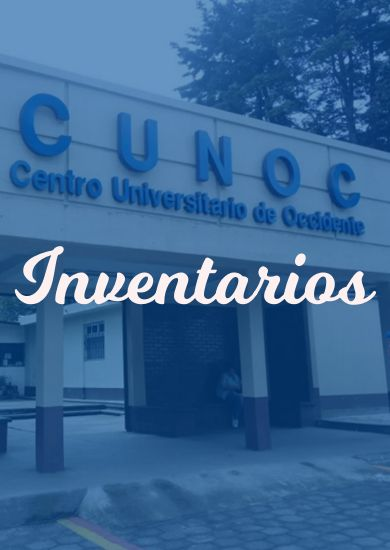
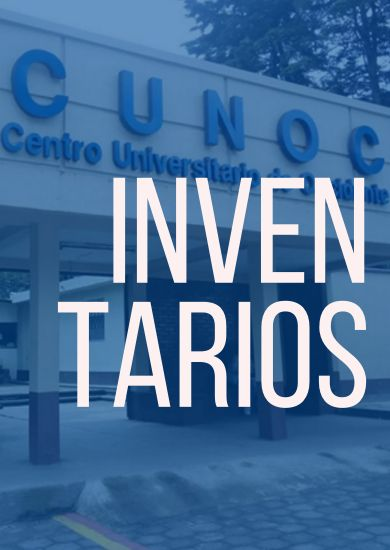
imagenes para sesion agregadas

diff --git a/src/pss1inventarioscunoc/frontend/vistas/VentanaSesion.java b/src/pss1inventarioscunoc/frontend/vistas/VentanaSesion.java
@@ -60,7 +60,7 @@ public class VentanaSesion extends javax.swing.JFrame {
 
         jPanel1.setLayout(new org.netbeans.lib.awtextra.AbsoluteLayout());
 
-        jLabel1.setIcon(new javax.swing.ImageIcon(getClass().getResource("/pss1inventarioscunoc/frontend/media/inventarios-pantalla.jpg"))); // NOI18N
+        jLabel1.setIcon(new javax.swing.ImageIcon(getClass().getResource("/pss1inventarioscunoc/frontend/media/inventarios-pantalla2.jpg"))); // NOI18N
         jPanel1.add(jLabel1, new org.netbeans.lib.awtextra.AbsoluteConstraints(0, 0, 390, 550));
 
         jPanel2.setBackground(new java.awt.Color(255, 255, 255));
